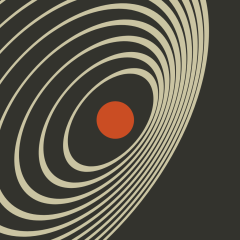
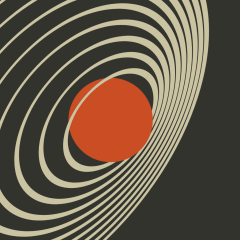
Add ring function

Changed region(s): [[0.2625, 0.3208, 0.6417, 0.7]]

diff --git a/gart/src/main/kotlin/dev/oblac/gart/gfx/ring.kt b/gart/src/main/kotlin/dev/oblac/gart/gfx/ring.kt
@@ -1,0 +1,102 @@
+import dev.oblac.gart.angles.Angle
+import dev.oblac.gart.gfx.fillOf
+import org.jetbrains.skia.Canvas
+import org.jetbrains.skia.Path
+import org.jetbrains.skia.Point
+import org.jetbrains.skia.Rect
+import kotlin.math.cos
+import kotlin.math.sin
+
+typealias RingDrawFns = Pair<() -> Unit, () -> Unit>
+
+fun createDrawRing(
+    c: Canvas,
+    center: Point,
+    radius: Float,
+    radius2: Float,
+    width1: Float,
+    width2: Float,
+    angle: Angle,
+    colorBold: Int,
+): RingDrawFns {
+    // Draw back part first (bottom half)
+    val fnBack = {
+        drawRingPart(
+            c, center, radius, radius2, width1, width2, angle, colorBold,
+            startAngle = 0f, sweepAngle = 180f, isBack = true
+        )
+    }
+
+    // Draw front part second (top half)
+    val fnFront = {
+        drawRingPart(
+            c, center, radius, radius2, width1, width2, angle, colorBold,
+            startAngle = 180f, sweepAngle = 180f, isBack = false
+        )
+    }
+    return Pair(fnBack, fnFront)
+}
+
+private fun drawRingPart(
+    c: Canvas,
+    center: Point,
+    radius: Float,
+    radius2: Float,
+    width1: Float,
+    width2: Float,
+    angle: Angle,
+    colorBold: Int,
+    startAngle: Float,
+    sweepAngle: Float,
+    isBack: Boolean
+) {
+    // Calculate the inner and outer radii for the ellipse
+    val outerRadiusX = radius
+    val outerRadiusY = radius2
+
+    // Create the outer oval rect
+    val outerRect = Rect.makeXYWH(
+        center.x - outerRadiusX,
+        center.y - outerRadiusY,
+        outerRadiusX * 2,
+        outerRadiusY * 2
+    )
+
+    // Calculate the inner radii, subtracting the width
+    val innerRadiusX = outerRadiusX - width1
+    val innerRadiusY = outerRadiusY - width2
+
+    // Create the inner oval rect
+    val innerRect = Rect.makeXYWH(
+        center.x - innerRadiusX,
+        center.y - innerRadiusY,
+        innerRadiusX * 2,
+        innerRadiusY * 2
+    )
+
+    c.save()
+    c.rotate(angle.degrees, center.x, center.y)
+
+    // Create a path for the ring segment
+    val path = Path()
+
+    // Add the outer arc
+    path.addArc(outerRect, startAngle, sweepAngle)
+
+    // Add lines to connect to inner arc
+    val outerEndX = center.x + outerRadiusX * cos(Math.toRadians((startAngle + sweepAngle).toDouble())).toFloat()
+    val outerEndY = center.y + outerRadiusY * sin(Math.toRadians((startAngle + sweepAngle).toDouble())).toFloat()
+    val innerEndX = center.x + innerRadiusX * cos(Math.toRadians((startAngle + sweepAngle).toDouble())).toFloat()
+    val innerEndY = center.y + innerRadiusY * sin(Math.toRadians((startAngle + sweepAngle).toDouble())).toFloat()
+
+    path.lineTo(innerEndX, innerEndY)
+
+    // Add the inner arc (in reverse direction)
+    path.addArc(innerRect, startAngle + sweepAngle, -sweepAngle)
+
+    path.closePath()
+
+    c.drawPath(path, fillOf(colorBold))
+
+    c.restore()
+}

diff --git a/arts/sf/src/main/kotlin/dev/oblac/gart/sf/SF3.kt b/arts/sf/src/main/kotlin/dev/oblac/gart/sf/SF3.kt
@@ -1,13 +1,14 @@
 package dev.oblac.gart.sf
 
+import RingDrawFns
+import createDrawRing
 import dev.oblac.gart.Dimension
 import dev.oblac.gart.Gart
-import dev.oblac.gart.angles.Angle
 import dev.oblac.gart.angles.Degrees
 import dev.oblac.gart.color.RetroColors
 import dev.oblac.gart.gfx.drawCircle
 import dev.oblac.gart.gfx.fillOf
-import org.jetbrains.skia.*
+import org.jetbrains.skia.Canvas
 
 fun main() {
     val gart = Gart.of("sf3", 1024, 1024)
@@ -33,68 +34,23 @@ private fun draw(c: Canvas, d: Dimension) {
 
     val center = d.center
 
+    val rings = mutableListOf<RingDrawFns>()
     for (i in 1..10) {
-        drawRing(
+        rings.add(
+            createDrawRing(
             c,
             center.offset(-40f * i, 0f),
             180f + i * 80,
             100f + i * 50,
             30f, 10f,
             Degrees(-50f), colorInk
+            )
         )
     }
-    c.drawCircle(center.offset(-20f, 0f), 80f, fillOf(colorBold))
 
-//    drawRing(c, center, 160f, 10f, 20f, Degrees(-60f), colorBold)
-//    drawRing(c, center, 180f, 10f, 20f, Degrees(-60f), colorBold)
-    //drawRing(c, center, 240f, 10f, 20f, Degrees(-60f), colorBold)
+    rings.map { it.first }.forEach { it() }
+    c.drawCircle(center.offset(-40f, 0f), 180f, fillOf(colorBold))
+    rings.map { it.second }.forEach { it() }
 
 }
 
-private fun drawRing(
-    c: Canvas,
-    center: Point,
-    radius: Float,
-    radius2: Float,
-    width1: Float,
-    width2: Float,
-    angle: Angle,
-    colorBold: Int
-) {
-    // calculate the inner and outer radii for the ellipse
-    val outerRadiusX = radius
-    val outerRadiusY = radius2
-
-    // Create the outer oval rect
-    val outerRect = Rect.makeXYWH(
-        center.x - outerRadiusX,
-        center.y - outerRadiusY,
-        outerRadiusX * 2,
-        outerRadiusY * 2
-    )
-
-    // calculate the inner radii, subtracting the width which varies around the ellipse
-    // we'll interpolate between width1 and width2 based on the angle
-    val innerRadiusX = outerRadiusX - width1
-    val innerRadiusY = outerRadiusY - width2
-
-    // create the inner oval rect
-    val innerRect = Rect.makeXYWH(
-        center.x - innerRadiusX,
-        center.y - innerRadiusY,
-        innerRadiusX * 2,
-        innerRadiusY * 2
-    )
-
-    // draw
-
-    c.save()
-    c.rotate(angle.degrees, center.x, center.y)
-
-    // clip the inner oval using DIFFERENCE mode to exclude it from drawing
-    c.clipRRect(RRect.makeOvalXYWH(innerRect.left, innerRect.top, innerRect.width, innerRect.height), ClipMode.DIFFERENCE, true)
-    // draw the filled outer oval (only the ring part will be visible due to clipping)
-    c.drawOval(outerRect, fillOf(colorBold))
-
-    c.restore()
-}
